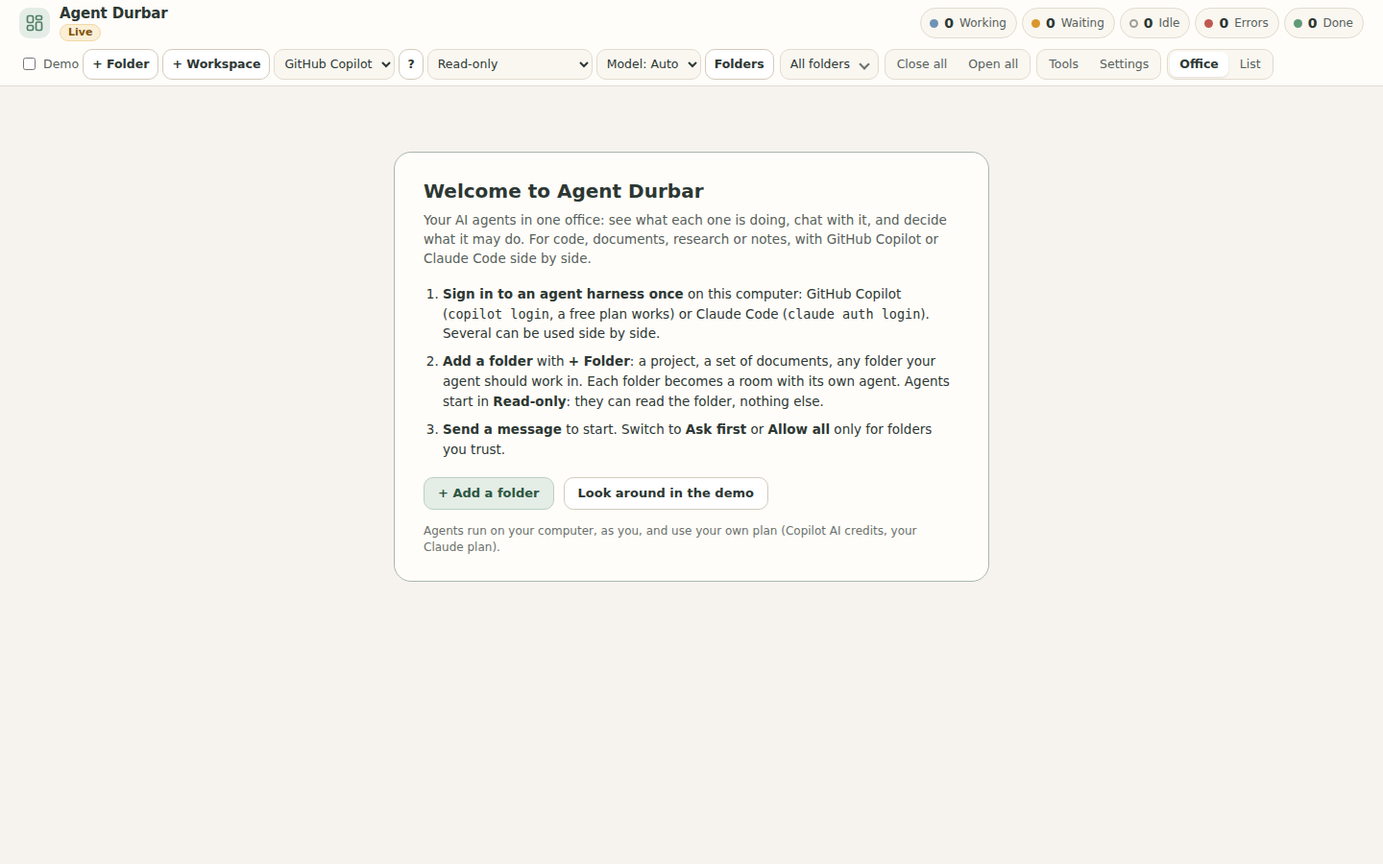
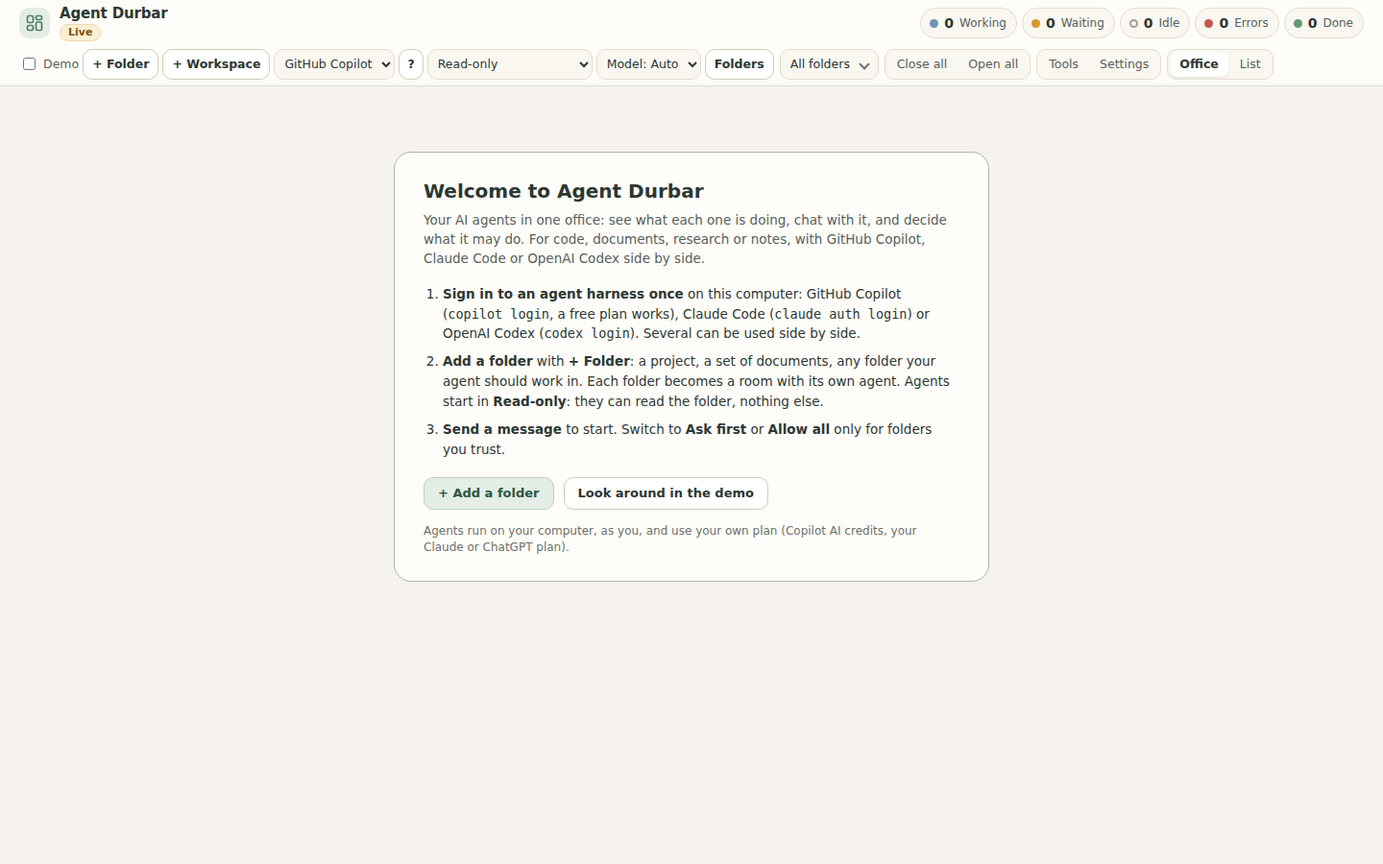
012 FR-145: OpenAI Codex offered next to Copilot and Claude Code when installed (T043c); real end-to-end app run

Changed region(s): [[0.3125, 0.3422, 0.6875, 0.4044], [0.375, 0.28, 0.5, 0.3111], [0.3438, 0.6222, 0.4062, 0.6533]]

diff --git a/src/renderer/app.js b/src/renderer/app.js
@@ -595,14 +595,14 @@ function chooseLayout(sizing,aw,ah){
 let layoutKey='', layout=null;
 /* spec 001 FR-026: what a new user needs before the first folder: sign in once, add a folder (Read-only), or look around in the demo */
 const WELCOME_HTML=`<section class="welcome" aria-labelledby="wlT"><h2 id="wlT">Welcome to Agent Durbar</h2>
-  <p class="wl-sub">Your AI agents in one office: see what each one is doing, chat with it, and decide what it may do. For code, documents, research or notes, with GitHub Copilot or Claude Code side by side.</p>
+  <p class="wl-sub">Your AI agents in one office: see what each one is doing, chat with it, and decide what it may do. For code, documents, research or notes, with GitHub Copilot, Claude Code or OpenAI Codex side by side.</p>
   <ol class="wl-steps">
-    <li><b>Sign in to an agent harness once</b> on this computer: GitHub Copilot (<code>copilot login</code>, a free plan works) or Claude Code (<code>claude auth login</code>). Several can be used side by side.</li>
+    <li><b>Sign in to an agent harness once</b> on this computer: GitHub Copilot (<code>copilot login</code>, a free plan works), Claude Code (<code>claude auth login</code>) or OpenAI Codex (<code>codex login</code>). Several can be used side by side.</li>
     <li><b>Add a folder</b> with <b>+ Folder</b>: a project, a set of documents, any folder your agent should work in. Each folder becomes a room with its own agent. Agents start in <b>Read-only</b>: they can read the folder, nothing else.</li>
     <li><b>Send a message</b> to start. Switch to <b>Ask first</b> or <b>Allow all</b> only for folders you trust.</li>
   </ol>
   <div class="wl-actions"><button class="btn primary" type="button" data-wl="add">+ Add a folder</button><button class="btn" type="button" data-wl="demo">Look around in the demo</button></div>
-  <p class="wl-note">Agents run on your computer, as you, and use your own plan (Copilot AI credits, your Claude plan).</p></section>`;
+  <p class="wl-note">Agents run on your computer, as you, and use your own plan (Copilot AI credits, your Claude or ChatGPT plan).</p></section>`;
 document.addEventListener('click',e=>{const b=e.target.closest('[data-wl]');if(!b)return;
   if(b.dataset.wl==='add')$('addFolder').click();
   else{const t=$('demoToggle');t.checked=true;t.dispatchEvent(new Event('change'));}});

diff --git a/src/adapters/experimental.ts b/src/adapters/experimental.ts
@@ -6,6 +6,7 @@ import type { AdapterDescriptor } from './capabilities';
 import { claudeDescriptor, cliTransportFactory } from './claude';
 import type { TransportFactory } from './claude';
 import { createSdkTransport, loadSdk } from './claudeSdk';
+import { CODEX_DESCRIPTOR } from './codex';
 import type { SdkModule } from './claudeSdk';
 
 
@@ -22,7 +23,7 @@ export function claudeTransportFor(dev: Readonly<Record<string, string | undefin
   };
 }
 
-/** FR-135: the harnesses offered next to Copilot, always registered (`dev` only picks Claude's transport). */
+/** FR-135/FR-145: the harnesses offered next to Copilot, always registered (`dev` only picks Claude's transport); detection decides what is ready. */
 export function offeredDescriptors(dev: Readonly<Record<string, string | undefined>>): AdapterDescriptor[] {
-  return [claudeDescriptor(claudeTransportFor(dev))];
+  return [claudeDescriptor(claudeTransportFor(dev)), CODEX_DESCRIPTOR];
 }

diff --git a/scripts/test-claude-sdk.ts b/scripts/test-claude-sdk.ts
@@ -170,9 +170,9 @@ async function main(): Promise<void> {
 
   // selection and registration (FR-114, FR-135: always registered, no hook)
   {
-    assert.deepStrictEqual(offeredDescriptors({ DURBAR_CLAUDE: '0' }).map((d) => d.id), ['claude'], 'the old hook no longer hides it');
+    assert.deepStrictEqual(offeredDescriptors({ DURBAR_CLAUDE: '0' }).map((d) => d.id), ['claude', 'codex'], 'the old hook no longer hides it; Codex is offered too (FR-145)');
     const reg = offeredDescriptors({});
-    assert.deepStrictEqual(reg.map((d) => d.id), ['claude']);
+    assert.deepStrictEqual(reg.map((d) => d.id), ['claude', 'codex']);
     assert.strictEqual(reg[0].displayName, 'Claude Code');
     assert.strictEqual(claudeTransportFor({}), cliTransportFactory, 'CLI by default');
     let loads = 0;

diff --git a/README.md b/README.md
@@ -6,9 +6,9 @@
 
 <p align="center"><em>A calm command center for your AI agents</em></p>
 
-An office-style command center to see, chat with and coordinate **AI agents across several harnesses**: GitHub Copilot and Claude Code today, Codex in progress. It is for **anyone who works with agents**, not only developers. A room is any folder an agent works in: code, documents, research or notes.
+An office-style command center to see, chat with and coordinate **AI agents across several harnesses**: GitHub Copilot, Claude Code and OpenAI Codex. It is for **anyone who works with agents**, not only developers. A room is any folder an agent works in: code, documents, research or notes.
 
-> Status: **alpha, `v0.1.0-alpha.6` ([published pre-release](https://github.com/three-feathers/agent-durbar/releases/tag/v0.1.0-alpha.6), unsigned, not notarized).** It offers **Claude Code next to Copilot** when it is installed, and continues each folder's **last session after a restart**. It also adds questions from agents, custom agents per session, scheduled prompts and copy buttons, plus a security sweep; see [CHANGELOG.md](CHANGELOG.md). `v0.1.0-alpha.5` stays available. The Electron app starts real GitHub Copilot sessions through `@github/copilot-sdk`, one per folder or `.code-workspace` file, and feeds the office view from live events. 10-15 agents stay readable on one 1440x900 / 1280x800 screen. **Claude Code is offered next to Copilot when it is installed and signed in** (no switch needed); Codex is groundwork only (see [Agents and adapters](#agents-and-adapters)). Latest work: [themes](#status-themes-clean-office-corporate-retro-pixel-three-durbar-courts-your-own-packs), [agents show how they are doing](#status-agents-show-how-they-are-doing-heavy-monster-ambulance-room-sirens), [floors](#status-floors-group-rooms-and-switch-a-floor-off), [places in the office](#status-places-in-the-office-a-shared-lobby-agents-walk-to-the-tool-they-use), [milestone 10 and usage totals](#status-milestone-10-tools-all-time-the-copilot-cli-mcp-list-first-mcp-extras-per-folder). Only Linux has been run by hand; macOS and Windows are built and unit-tested in CI but untested on real hardware. Built by [Three Feathers](https://github.com/three-feathers); the work is tracked on the [project board](https://github.com/orgs/three-feathers/projects/1).
+> Status: **alpha, `v0.1.0-alpha.6` ([published pre-release](https://github.com/three-feathers/agent-durbar/releases/tag/v0.1.0-alpha.6), unsigned, not notarized).** It offers **Claude Code next to Copilot** when it is installed, and continues each folder's **last session after a restart**. It also adds questions from agents, custom agents per session, scheduled prompts and copy buttons, plus a security sweep; see [CHANGELOG.md](CHANGELOG.md). `v0.1.0-alpha.5` stays available. The Electron app starts real GitHub Copilot sessions through `@github/copilot-sdk`, one per folder or `.code-workspace` file, and feeds the office view from live events. 10-15 agents stay readable on one 1440x900 / 1280x800 screen. **Claude Code is offered next to Copilot when it is installed and signed in** (no switch needed); **Codex is offered too** when installed and signed in (see [Agents and adapters](#agents-and-adapters)). Latest work: [themes](#status-themes-clean-office-corporate-retro-pixel-three-durbar-courts-your-own-packs), [agents show how they are doing](#status-agents-show-how-they-are-doing-heavy-monster-ambulance-room-sirens), [floors](#status-floors-group-rooms-and-switch-a-floor-off), [places in the office](#status-places-in-the-office-a-shared-lobby-agents-walk-to-the-tool-they-use), [milestone 10 and usage totals](#status-milestone-10-tools-all-time-the-copilot-cli-mcp-list-first-mcp-extras-per-folder). Only Linux has been run by hand; macOS and Windows are built and unit-tested in CI but untested on real hardware. Built by [Three Feathers](https://github.com/three-feathers); the work is tracked on the [project board](https://github.com/orgs/three-feathers/projects/1).
 
 ![15 simulated agents at 1440x900 (roomy desks use the spare floor space)](docs/screenshots/m5-sim15-1440x900-closed.png)
 ![Full-screen chat with every other agent in a slim strip, 15 agents at 1280x800](docs/screenshots/m6-fullchat-sim15-1280x800.png)
@@ -62,7 +62,7 @@ Full list in [CHANGELOG.md](CHANGELOG.md). Short version, since alpha.4:
 - **Agents show how they are doing** (spec 034): heavier near a full context window, an ambulance for errors, fainting at the credit limit; rooms take the tone of their worst agent. *Serious mode* turns it off.
 - **Custom places** in the lobby, and per-folder MCP servers listed in Settings > Places (spec 024).
 - **Usage totals kept across restarts**, with a reset in Settings (spec 011).
-- Claude Code (spec 012): offered when installed and signed in; Codex: groundwork only, no adapter yet.
+- Claude Code and OpenAI Codex (spec 012): offered when installed and signed in.
 - **Still unsigned and not notarized** (steps below). **Untested on real macOS and Windows hardware.** Theme fonts depend on your OS. An in-place upgrade from alpha.4 was not checked.
 
 ### What was new in v0.1.0-alpha.4
@@ -120,13 +120,13 @@ The three mode names are the same for every agent kind, and Durbar maps them to 
 
 ## Agents and adapters
 
-Agent Durbar offers **GitHub Copilot** and **Claude Code**, each when it is installed and signed in on your computer. Claude Code runs your own installed `claude` with your own sign-in. Durbar enforces Read-only / Ask first / Allow all through its own permission broker and loads none of Claude's settings files. It was checked on a real Claude Code 2.1.302-2.1.303: every mode, interrupt, stop and resume, the full app end to end, and restarts. When two or more harnesses are ready, the toolbar and the New session dialog let you pick the **Harness**; with one, nothing extra is shown. Claude's cost is a dollar *estimate*: its cards show `≈ $… est.`, never as AIU and never added to an AIU total, and it has no credit cap (T081). Codex is planned ([spec 012](specs/012-claude-codex-adapters/spec.md)) and is "simulator/fixtures only".
+Agent Durbar offers **GitHub Copilot**, **Claude Code** and **OpenAI Codex**, each when it is installed and signed in on your computer. Codex runs your own `codex` (ChatGPT sign-in or API key) through `codex app-server`. Claude Code runs your own installed `claude` with your own sign-in. Durbar enforces Read-only / Ask first / Allow all through its own permission broker and loads none of Claude's settings files. It was checked on a real Claude Code 2.1.302-2.1.303: every mode, interrupt, stop and resume, the full app end to end, and restarts. When two or more harnesses are ready, the toolbar and the New session dialog let you pick the **Harness**; with one, nothing extra is shown. Claude's cost is a dollar *estimate*: its cards show `≈ $… est.`, never as AIU and never added to an AIU total, and it has no credit cap (T081). Codex is planned ([spec 012](specs/012-claude-codex-adapters/spec.md)) and is "simulator/fixtures only".
 
 | Agent | Status | Simulator | Fixtures / fakes | Real account |
 | --- | --- | --- | --- | --- |
 | GitHub Copilot | Supported, in use | Yes | Yes: adapter contract suite and recorded event fixtures replayed through a fake SDK client | Yes (milestones 1-11; some parts are flagged unverified, see Known limits) |
 | Claude Code | **Supported when installed** (spec 012 FR-135): adapter over your installed `claude` (CLI stream protocol; the Claude Agent SDK only if you install it and set `DURBAR_CLAUDE_TRANSPORT=sdk`); a model and effort picker (the models your `claude` lists, read without a prompt); previous sessions and resume (read-only from Claude's own session files); questions Claude asks you (`AskUserQuestion`) appear as a card in the chat; its MCP servers can be switched on and off while it runs; the context chip shows how full its window is; custom agents from `.claude/agents` (chosen when a session starts); the mode can be changed while it runs (a stricter mode applies at once, a looser one from Read-only from the next message, which resumes the session with the new flags) | Yes: mixed-kind roster (`simkinds=mixed`) with capability gating | Yes: adapter contract suite over the real CLI transport and a scripted fake `claude`; SDK transport on a fake module | **Yes, once** (2026-10-18, `haiku`, about $0.015): Read-only (outside read denied by the hook), Ask first approve and deny, Allow all, interrupt, stop and resume; live mode switch (Allow all to Read-only during a shell command blocked the next write; Read-only to Allow all resumed with the context kept; about $0.011) |
-| Codex CLI | **In progress** (not offered yet): an adapter over your installed `codex app-server`, run for real on 2026-10-19 (Codex 0.163, ChatGPT Plus): Read-only, Ask first and Allow all enforced; Stop leaves a command that already started running (End session stops it) | Yes: mixed-kind roster (`simkinds=mixed`) | Contract suite on a fake adapter; mode mapping, event mapper and JSON-RPC client on synthetic fixtures | No: never run |
+| OpenAI Codex | **Supported when installed** (spec 012 FR-145): adapter over your installed `codex app-server`. Read-only, Ask first and Allow all are enforced (Read-only limits reads to the session folders). Also: the mode changes from the next message, a model and effort picker (`model/list`), previous sessions and resume, and a folder continues its last thread after a restart. Stop leaves a command that already started running (End session stops it). On Ubuntu, Read-only and Ask first need the bubblewrap note below. | Yes: mixed-kind roster (`simkinds=mixed`) | Yes: scripted fake app-server (the real server's behaviour, including the folder rewrite on resume), mappers on synthetic fixtures | **Yes** (2026-10-19, Codex 0.163, ChatGPT Plus): every mode, interrupt, End session, resume, a mode switch, models, history, and the full app across a restart |
 
 **Codex on Ubuntu 24.04 and later.** Codex's Read-only and Ask first modes run commands in its Linux sandbox (bubblewrap). Ubuntu blocks that for unprivileged programs (`kernel.apparmor_restrict_unprivileged_userns=1`), so those modes fail at start with a message saying so. Allow all needs no sandbox. To allow only bubblewrap, keeping the protection for everything else, add an AppArmor profile (needs `sudo`):
 
@@ -543,7 +543,7 @@ Not done yet / known gaps:
 
 ## Vision
 
-- **Any harness, side by side**: GitHub Copilot, Claude Code and (in progress) Codex agents in one office, each with its own permission mode, model and usage.
+- **Any harness, side by side**: GitHub Copilot, Claude Code and OpenAI Codex agents in one office, each with its own permission mode, model and usage.
 - **For anyone with agents**: writing, research, operations or code. Durbar shows what agents do in plain words and keeps you in control of what they may do.
 - **See**: every running agent at a glance, what it is doing now, and its state (idle / working / needs permission / error).
 - **Control**: start, stop and message agents; approve or deny permission prompts.
@@ -600,7 +600,7 @@ An Electron app that:
 - [x] Office polish for 10-15 agents: auto-fit density, helpers with `+N`, status sorting, chat chips (simulated agents mode)
 - [x] Floor-plan look for the compact densities: desk scenes, room zones, helper mini-desks (milestone 4)
 - [x] Approve for this session (revocable), clean Stop with pending permission, inline permission notes, attachment caps with drag-and-drop/paste, keyed office updates, up to 3 helpers, roomy desks (milestone 5)
-- [ ] Second adapter (Claude Code and Codex): **Claude Code offered when installed** (owner decision 2026-10-19, FR-135; real checks of every mode, interrupt, resume, a live mode switch and the full app). Codex: groundwork only, the adapter is in progress. Spec, research, plan and tasks are in [spec 012](specs/012-claude-codex-adapters/spec.md)
+- [ ] Second adapter (Claude Code and Codex): **Claude Code offered when installed** (owner decision 2026-10-19, FR-135; real checks of every mode, interrupt, resume, a live mode switch and the full app). **Codex offered when installed** (FR-145, 2026-10-19; real checks of every mode, resume, a mode switch and the full app). Spec, research, plan and tasks are in [spec 012](specs/012-claude-codex-adapters/spec.md)
 - [ ] Change the model, effort and context tier of a running session, compact the context, start-fresh hint: **Phases 1 and 2 are built** (milestone 11 above): the simulator fully, the real Copilot adapter from the SDK docs and tested on a fake session, so its controls are flagged "not verified on a real account yet" until the owner-approved real checks (Phase 3). Spec, research, plan and tasks are in [spec 030](specs/030-switch-model-context/spec.md). The Copilot SDK 1.0.22 declares a live model switch and a manual compaction, but it has **no free choice of window size** and **cannot clear a conversation from a host app**; all of it was read from types and docs only, nothing was run on a real account. Where an adapter cannot switch, the model stays fixed (start a new session to change it)
 - [x] Collaboration harness: team rules in [AGENTS.md](AGENTS.md), issues and a [project board](https://github.com/orgs/three-feathers/projects/1), Spec Kit gate, PR template (spec 021)
 - [ ] Code signing and notarization (spec 014, needs a purchase approved by the maintainer)

diff --git a/specs/README.md b/specs/README.md
@@ -42,7 +42,7 @@ what exists today, not what was originally intended. Each requirement carries a 
 | # | Feature | Status |
 | --- | --- | --- |
 | [011](011-credit-caps-and-usage-display/spec.md) | AI-credit caps and usage display | per-session cap slice and office/folder usage totals built, totals kept across restarts with a reset (2026-10-17, issue #21); exhausted flow unverified on a real account; multiplier estimate covered by spec 030 |
-| [012](012-claude-codex-adapters/spec.md) | Claude Code and Codex adapters | **Claude Code offered when installed** (FR-135/FR-136, owner decision 2026-10-19; was experimental behind `DURBAR_CLAUDE=1`; CLI transport, SDK transport by dynamic import; real check 2026-10-18, T090-T094; live mode switch T096-T098, issue #54; model and effort picker T099-T101, issue #57; sign-in check T110, issue #55; MCP switches T111, issue #58; context window T112; dollar estimate apart from AIU T085, issue #194; first real-app run T095 part 1, issue #196; previous sessions and resume T104-T106, issue #56; questions from the agent T107-T109, issue #60; offering it to everyone is T095); planned: clarified, [research](012-claude-codex-adapters/research.md), [plan](012-claude-codex-adapters/plan.md), [tasks](012-claude-codex-adapters/tasks.md); **Phase 1 built 2026-10-18 (T010-T019: interface, registry, CLI detection, saved adapter id, routing, contract suite on a fake and on Copilot, kind picker, mixed simulator roster, docs) and Phase 2/3 groundwork (T021/T022 mode mappings, T023/T024 event mappers with synthetic fixtures, T042 Codex JSON-RPC client, T051 debug-log redaction, T027 no Claude settings files (Q8), T026 SC-004 parity across mode mappings, T084 Codex reads limited to the session folders, T043a Codex adapter on a scripted fake (not registered), T028 Phase 2 docs, T025 usage/context tests and Claude usage dedupe), all simulator/fixtures and unit tests, not wired to a real Claude or Codex; only Copilot is registered; nothing verified on a real account**; real-account tasks need owner approval; umbrella issue #2 |
+| [012](012-claude-codex-adapters/spec.md) | Claude Code and Codex adapters | **Claude Code and OpenAI Codex offered when installed** (Codex FR-145, 2026-10-19; real checks and the full app); **Claude Code offered when installed** (FR-135/FR-136, owner decision 2026-10-19; was experimental behind `DURBAR_CLAUDE=1`; CLI transport, SDK transport by dynamic import; real check 2026-10-18, T090-T094; live mode switch T096-T098, issue #54; model and effort picker T099-T101, issue #57; sign-in check T110, issue #55; MCP switches T111, issue #58; context window T112; dollar estimate apart from AIU T085, issue #194; first real-app run T095 part 1, issue #196; previous sessions and resume T104-T106, issue #56; questions from the agent T107-T109, issue #60; offering it to everyone is T095); planned: clarified, [research](012-claude-codex-adapters/research.md), [plan](012-claude-codex-adapters/plan.md), [tasks](012-claude-codex-adapters/tasks.md); **Phase 1 built 2026-10-18 (T010-T019: interface, registry, CLI detection, saved adapter id, routing, contract suite on a fake and on Copilot, kind picker, mixed simulator roster, docs) and Phase 2/3 groundwork (T021/T022 mode mappings, T023/T024 event mappers with synthetic fixtures, T042 Codex JSON-RPC client, T051 debug-log redaction, T027 no Claude settings files (Q8), T026 SC-004 parity across mode mappings, T084 Codex reads limited to the session folders, T043a Codex adapter on a scripted fake (not registered), T028 Phase 2 docs, T025 usage/context tests and Claude usage dedupe), all simulator/fixtures and unit tests, not wired to a real Claude or Codex; only Copilot is registered; nothing verified on a real account**; real-account tasks need owner approval; umbrella issue #2 |
 | [013](013-live-verification-stop-resume-thinking/spec.md) | Live verification of Stop, resume and thinking | run 2026-10-19: C1-C7 pass on a real Copilot session (9 prompts, 0.31 AIU); several models, real cap, VS Code and macOS/Windows still open |
 | [014](014-signing-and-notarization/spec.md) | Code signing and notarization | draft, **needs approval (purchase)** |
 

diff --git a/specs/012-claude-codex-adapters/tasks.md b/specs/012-claude-codex-adapters/tasks.md
@@ -49,8 +49,8 @@ One task = one issue = one pull request. Tick the task in the same pull request.
 - [x] T042 (sim) `codexRpc.ts`: line-delimited JSON-RPC client over `child_process.spawn` (argv array, absolute path, no shell); tests on a scripted stdio fake: framing, ids, notifications, server requests, malformed lines, child exit [FR-006, FR-020]
 - [x] T043a (sim) `CodexAdapter` on a scripted app-server fake, not registered (PR #177) [FR-089..FR-092, FR-094..FR-099]
 - [x] T043b (sim) resume with the profile re-check [FR-093] (2026-10-19; real check in the spec)
-- [ ] T043c (sim) registration behind `DURBAR_CODEX=1`, detector [FR-100]
-- [ ] T043 (sim; T043a built 2026-10-18, PR #177, approvals, interrupt and the D5 env deny list included; split 2026-10-18 into T043a fake app-server, handshake, start with the FR-087 refusal, send, turn mapping, stop, crash, contract run; T043b resume with the profile re-check (approvals and interrupt moved into T043a); T043c registration behind `DURBAR_CODEX=1`, detector, env deny list, docs) `CodexAdapter`: initialize, `thread/start` and `thread/resume`, `turn/start`, interrupt, stop, approvals through the broker, crash becomes `error`; contract suite on a scripted app-server fake [FR-003, FR-017, SC-002]
+- [x] T043c (sim) registration behind `DURBAR_CODEX=1`, detector [FR-100] (2026-10-19: offered when installed instead of a hook, FR-145, owner)
+- [x] T043 (sim; T043a built 2026-10-18, PR #177, approvals, interrupt and the D5 env deny list included; split 2026-10-18 into T043a fake app-server, handshake, start with the FR-087 refusal, send, turn mapping, stop, crash, contract run; T043b resume with the profile re-check (approvals and interrupt moved into T043a); T043c registration behind `DURBAR_CODEX=1`, detector, env deny list, docs) `CodexAdapter`: initialize, `thread/start` and `thread/resume`, `turn/start`, interrupt, stop, approvals through the broker, crash becomes `error`; contract suite on a scripted app-server fake [FR-003, FR-017, SC-002] (2026-10-19: T043a, T043b and T043c done; real checks T061-T064 and the full app)
 - [ ] T044 (sim) Packaged-build check without a vendor: the ESM SDK is imported from the CommonJS main process, `asarUnpack` entries are right, run in CI on three OSes; documents the result [FR-021]
 - [x] T044a (2026-10-19) The packaged-build check on Linux, run locally: `scripts/pack-esm-check.js` in `release/linux-unpacked` (see the spec change of that date); CI on three OSes stays open (T044)
 - [x] T045 (sim) `ClaudeAdapter` on a fake `query()` object seam: input queue, `canUseTool` to broker, hooks, interrupt, close, resume with `sessionId`; the folder's `CLAUDE.md` with its `@` imports (for example `AGENTS.md`, inside the folder only, bounded size) as an appended system prompt while `settingSources` stays `[]` (owner, 2026-10-18, review of #160); contract suite. Depends on T040, T041 [FR-003, FR-017, SC-002] (done 2026-10-18 as T090-T094 on the CLI transport and the SDK seam; issue #53 closed)

diff --git a/specs/012-claude-codex-adapters/spec.md b/specs/012-claude-codex-adapters/spec.md
@@ -738,3 +738,27 @@ The owner handed the Codex track to this agent ("ruben does not have chatgpt acc
   - in Read-only `echo one > a.txt` failed (read-only file system, no file);
   - after `setPermMode('allow')` the next message wrote `a.txt`;
   - after End session, `start` with the same Durbar id resumed the same thread, which answered "a.txt" when asked what it wrote.
+
+### 2026-10-19: Codex offered like Copilot and Claude Code when installed (T043c, T043; owner)
+
+*Owner, 2026-10-19:* "you can take all the work until completion" (the Codex track), after "support claude same as copilot if it is installed" for Claude (FR-135).
+
+- **FR-145** `[IMPLEMENTED]` OpenAI Codex is registered in every build next to Copilot and Claude Code (`offeredDescriptors`). Whether it can be used is what detection says (FR-137): ready, not installed, not signed in, or too old. With two or more ready, the Harness picker offers it (FR-136). This replaces the `DURBAR_CODEX` hook of FR-100, which was never wired.
+- What a Codex agent has (FR-089..FR-099, FR-093, FR-137..FR-144):
+  - the three modes, enforced (Read-only limits reads to the session folders);
+  - approvals through Durbar's broker;
+  - interrupt, with the FR-139 caveat; End session; resume, also across restarts;
+  - a mode change from the next message;
+  - Codex's models and efforts per turn;
+  - previous sessions and history replay;
+  - usage tokens and the context window.
+  
+  Not yet: a credit cap (Codex reports no cost; ChatGPT plans have their own limits), MCP status and switches, helpers (sub-agents) and the question card (T050, T052, T065).
+- `real:` 2026-10-19, the built app, a fresh profile, Codex 0.163 (ChatGPT Plus), two launches:
+  - `listAdapters` gave `copilot`, `claude` and `codex` ready (Codex: "Signed in to Codex on this computer."), and the Harness picker offers GitHub Copilot, Claude Code and OpenAI Codex;
+  - Codex's 7 models were listed;
+  - first launch: a Read-only Codex folder answered;
+  - second launch: the card said "Your last session here"; opening it replayed the chat with "Continued after restart"; asked for the word, it answered **marmalade**;
+  - the folders file held the Codex thread id with `adapterId: codex`.
+  
+  Screenshot: `docs/screenshots/012-codex-real-continued-1440x900.png`. Not checked: Windows and macOS, and MCP or sub-agents through Codex (T065).

diff --git a/CHANGELOG.md b/CHANGELOG.md
@@ -4,6 +4,13 @@ Agent Durbar is an alpha. Builds are unsigned and have only been run by hand on 
 
 ## Unreleased (on `main`, after the alpha.6 tag)
 
+- **OpenAI Codex is offered next to Copilot and Claude Code (spec 012 FR-145).** If `codex` is installed and signed in (`codex login`, for example with ChatGPT), it is a harness you can pick. It supports:
+  - Read-only, Ask first and Allow all, enforced;
+  - a mode switch from the next message, models and efforts;
+  - previous sessions and resume; a folder continues its last thread after a restart.
+  
+  Checked end to end in the real app with ChatGPT Plus. On Ubuntu, Read-only and Ask first need the bubblewrap note in the README.
+
 - **Codex groundwork: mode switch and restarts (spec 012 FR-143/FR-144).** A Codex agent's permission mode can be changed while it runs; it applies from the next message, and a stricter mode stops a running turn. An ended Codex session continues its own thread, also after a restart. Checked on a real Codex.
 
 - **Codex groundwork: resume, previous sessions, history and models (spec 012 FR-093, FR-141, FR-142).** The Codex adapter, not offered yet, can resume a thread of the same folder, list the folder's earlier threads, replay a thread's chat, and offer Codex's models and efforts. All of this was checked on a real Codex.
